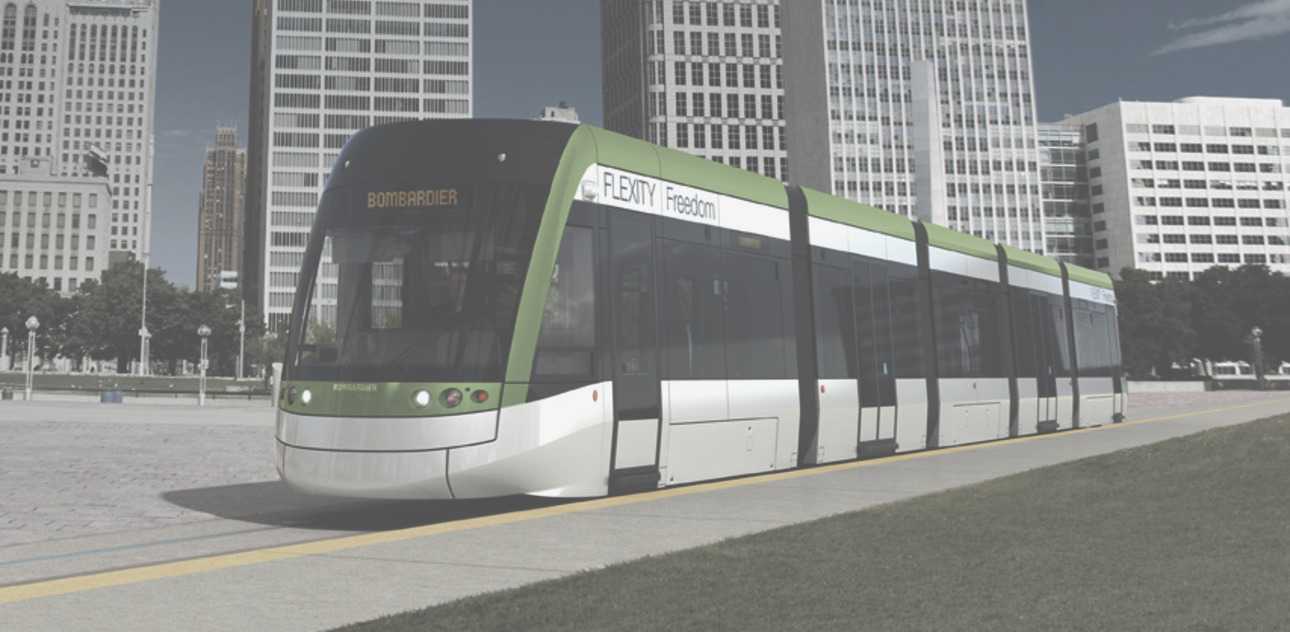
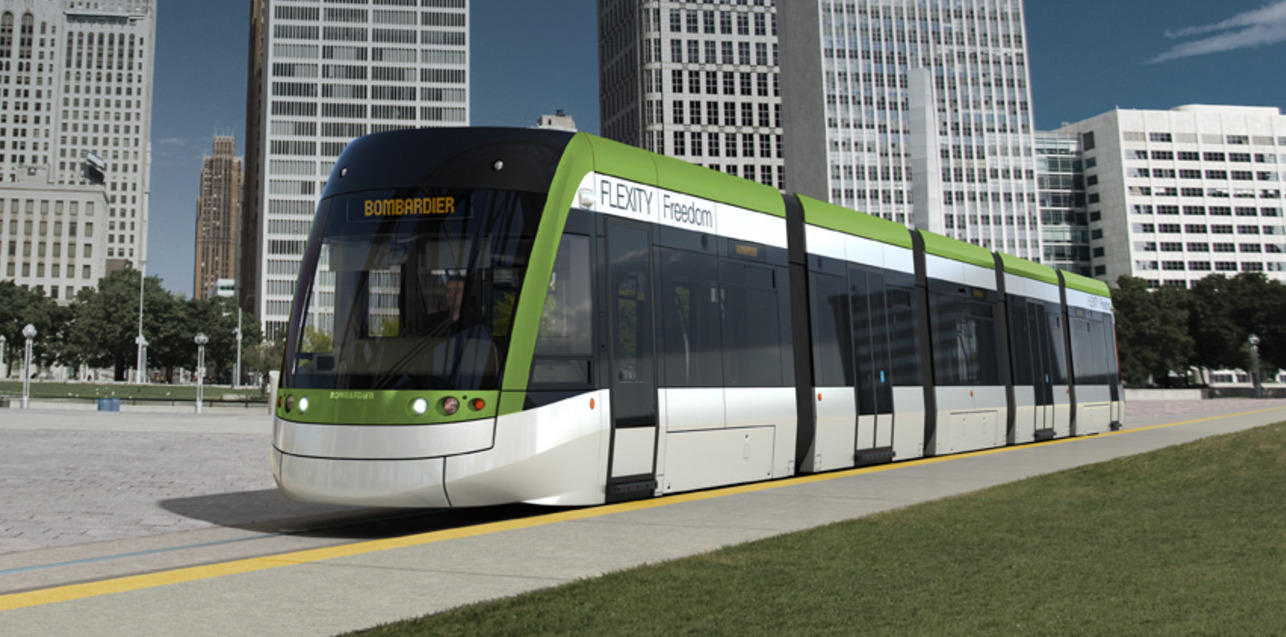
Updated carousel formatting

diff --git a/app/assets/stylesheets/main.scss b/app/assets/stylesheets/main.scss
@@ -21,6 +21,30 @@ p {
   font-size: 24px;
 }
 
+// carousel modifications
+
+.container.carousel-images {
+  padding-left: 0px;
+  padding-right: 0px;
+  margin-left: 0px;
+  margin-right: 0px;
+  width: auto;
+  height: auto;
+  padding: 0px;
+  display: flex;
+}
+
+.carousel-images {
+  opacity: 0.8;
+}
+
+// need to find way to edit captions like this...
+.carousel-caption {
+  right: 15%;
+  left: 15%;
+  padding-bottom: 200px;
+}
+
 /*survey styles*/
 
 .well {
